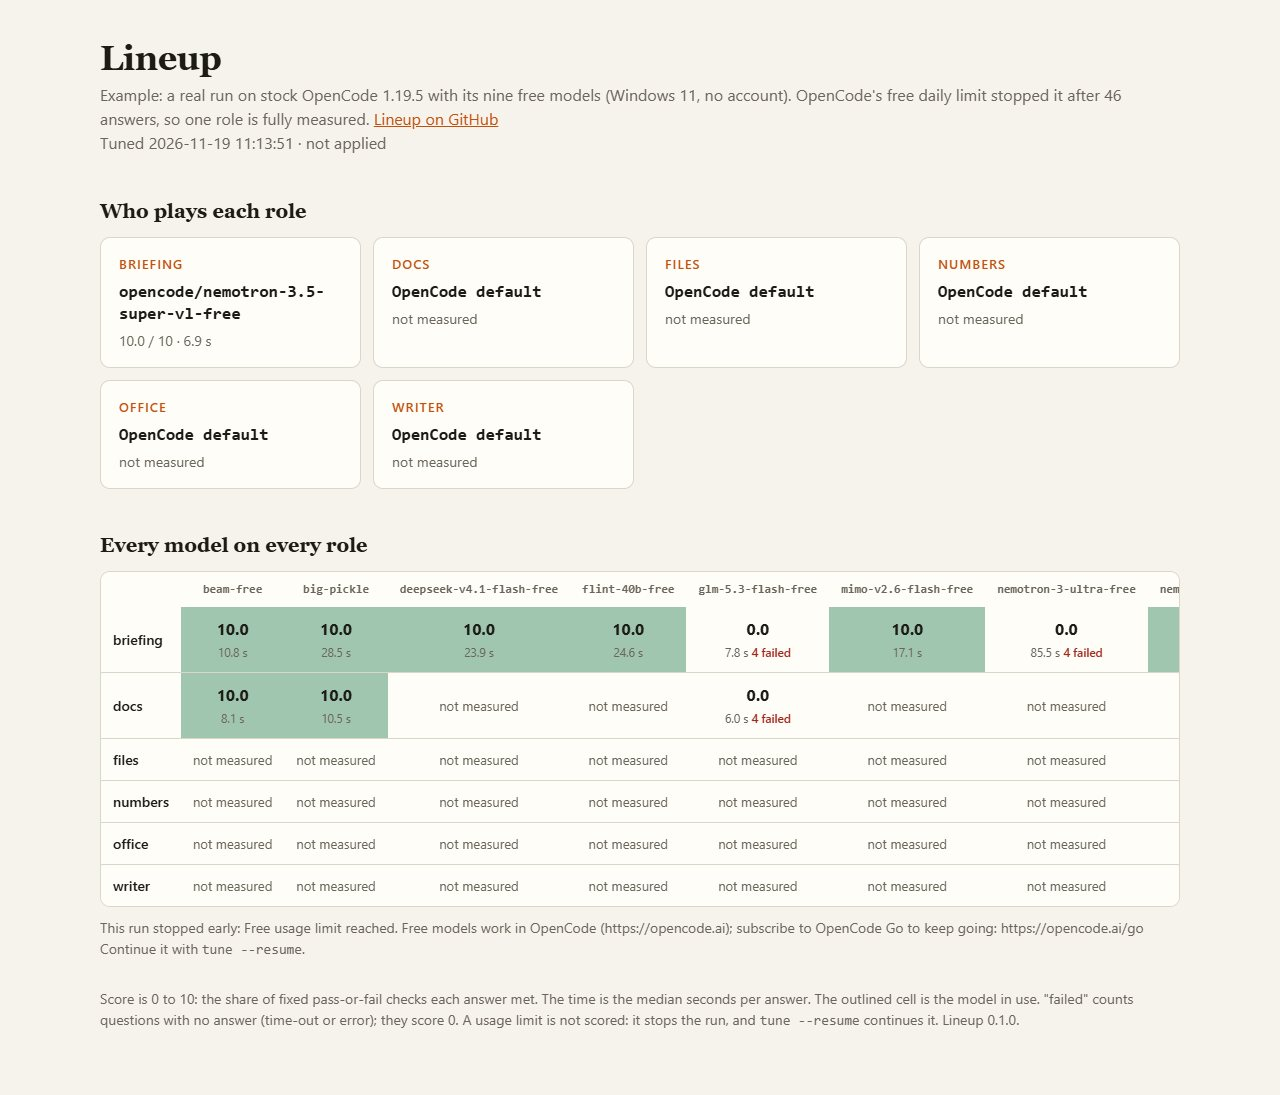
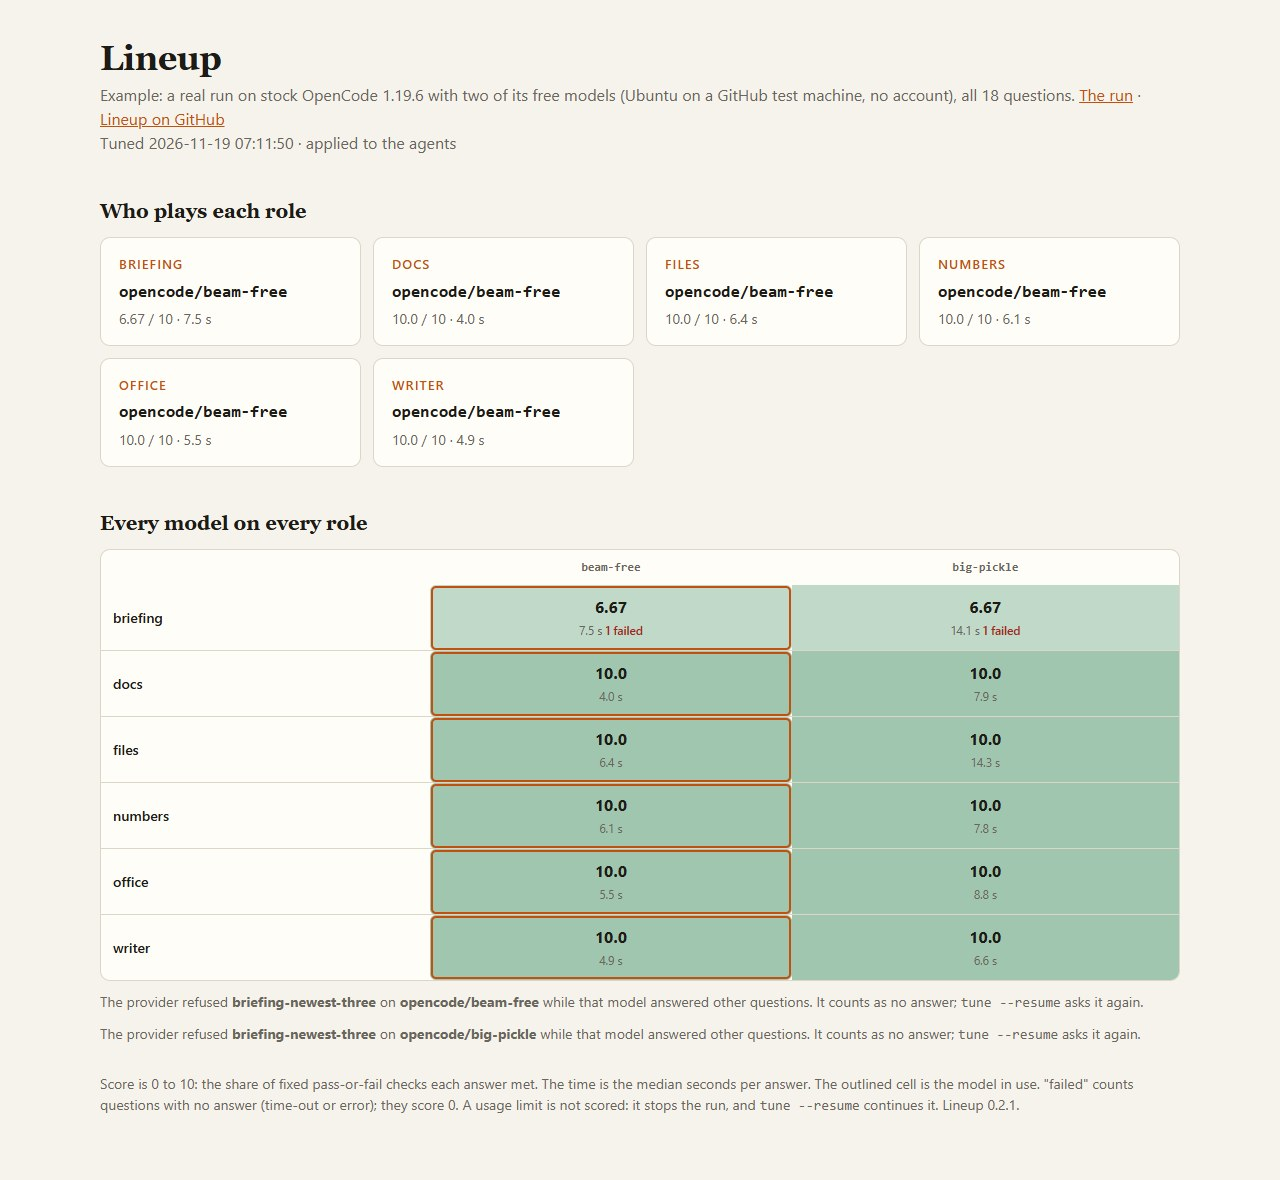
lineup: 0.2.1, the example is the complete run on a GitHub test machine

diff --git a/p/lineup/index.html b/p/lineup/index.html
@@ -605,7 +605,7 @@ html.dna.dna.dna { --fd: "Fjalla One", var(--fd-fallback); --fdw: 400; --fd-fall
       <div class="bar"><i></i><i></i><i></i><span>lineup · example run</span><em>example run</em></div>
       <img src="shot.jpg" alt="Lineup screenshot" width="1280" height="800" fetchpriority="high">
     </figure>
-    <div class="stats reveal" style="--n:4"><div class="stat"><b>2</b><span>platforms: OpenCode, Python</span></div><div class="stat"><b>6</b><span>role agents</span></div><div class="stat"><b>18</b><span>fixed questions per model with --hard</span></div><div class="stat"><b>38</b><span>tests, no network needed</span></div></div>
+    <div class="stats reveal" style="--n:4"><div class="stat"><b>2</b><span>platforms: OpenCode, Python</span></div><div class="stat"><b>6</b><span>role agents</span></div><div class="stat"><b>18</b><span>fixed questions per model with --hard</span></div><div class="stat"><b>40</b><span>tests, no network needed</span></div></div>
   </section>
 
   <section class="block wrap why reveal" id="why">
@@ -650,12 +650,12 @@ python lineup.py report             # open the score page"><svg viewBox="0 0 24 
   <section class="block alt wrap reveal" id="features">
     <div class="kicker">What's inside</div>
     <h2>Six agents and one command.</h2>
-    <div class="bento"><article class="cell wide dark"><h3>Six role agents</h3><p>Files, docs, numbers, writer, office and briefing. Pick one in OpenCode or call it as a subagent.</p></article><article class="cell"><h3>Each agent has its own permissions</h3><p>Files, numbers and briefing may not edit files or run commands. Docs and writer ask before an edit. Office asks before an edit or a command.</p></article><article class="cell"><h3>One command chooses the models</h3><p>tune asks every model the same fixed questions and writes the best one for each role into the agent files.</p></article><article class="cell accent"><h3>Pass-or-fail checks</h3><p>For example &quot;exactly 3 bullets&quot; or &quot;the sum is 4,815.50&quot;. The score is the share of checks passed, from 0 to 10. No model judges another model.</p></article><article class="cell"><h3>A backup and a put-back</h3><p>The agent files are copied before any change. Each changed agent is asked one question, and if one does not answer, all files are put back.</p></article><article class="cell"><h3>It stops at a usage limit</h3><p>If a provider refuses more questions, Lineup stops asking, changes no agent and keeps every answer it has. --resume continues from there, for up to 7 days.</p></article><article class="cell"><h3>Your own tasks</h3><p>The built-in tasks are a floor, and --hard adds a harder third task per role. Add questions from your own work to tasks.json with four check types: regex, absent, bullets and max_words.</p></article><article class="cell wide"><h3>No packages to install</h3><p>You need OpenCode with at least one working model, and Python 3.9 or newer on Windows, macOS or Linux. No Python packages are installed. On Windows without Python, lineup.exe does the same.</p></article></div>
+    <div class="bento"><article class="cell wide dark"><h3>Six role agents</h3><p>Files, docs, numbers, writer, office and briefing. Pick one in OpenCode or call it as a subagent.</p></article><article class="cell"><h3>Each agent has its own permissions</h3><p>Files, numbers and briefing may not edit files or run commands. Docs and writer ask before an edit. Office asks before an edit or a command.</p></article><article class="cell"><h3>One command chooses the models</h3><p>tune asks every model the same fixed questions and writes the best one for each role into the agent files.</p></article><article class="cell accent"><h3>Pass-or-fail checks</h3><p>For example &quot;exactly 3 bullets&quot; or &quot;the sum is 4,815.50&quot;. The score is the share of checks passed, from 0 to 10. No model judges another model.</p></article><article class="cell"><h3>A backup and a put-back</h3><p>The agent files are copied before any change. Each changed agent is asked one question, and if one does not answer, all files are put back.</p></article><article class="cell"><h3>It stops at a usage limit</h3><p>If a provider refuses more questions, Lineup stops asking, changes no agent and keeps every answer it has. --resume continues from there, for up to 7 days. If it refuses one question only, that one counts as no answer and the run goes on.</p></article><article class="cell"><h3>Your own tasks</h3><p>The built-in tasks are a floor, and --hard adds a harder third task per role. Add questions from your own work to tasks.json with four check types: regex, absent, bullets and max_words.</p></article><article class="cell wide"><h3>No packages to install</h3><p>You need OpenCode with at least one working model, and Python 3.9 or newer on Windows, macOS or Linux. No Python packages are installed. On Windows without Python, lineup.exe does the same.</p></article></div>
   </section>
   <section class="block wrap reveal" id="gallery">
     <div class="kicker">Screens</div>
     <h2>See more of it.</h2>
-    <div class="gallery g1" style="grid-template-columns:minmax(0,820px)"><a class="shot" href="g1.jpg"><img src="g1.jpg" alt="The score page of the example run" loading="lazy" width="1280" height="1095"><span>The score page of the example run</span></a></div>
+    <div class="gallery g1" style="grid-template-columns:minmax(0,820px)"><a class="shot" href="g1.jpg"><img src="g1.jpg" alt="The score page of the example run" loading="lazy" width="1280" height="1180"><span>The score page of the example run</span></a></div>
   </section>
   <section class="block alt wrap reveal" id="privacy">
     <div class="privacy">
@@ -668,7 +668,7 @@ python lineup.py report             # open the score page"><svg viewBox="0 0 24 
     <div class="limits">
       <div><div class="kicker left">Good to know</div><h2 class="left">Honest limits.</h2>
       <p class="muted">Straight from the README, so you know what you're getting before you try it.</p></div>
-      <ul><li><i><svg viewBox="0 0 24 24" aria-hidden="true"><path d="M12 3.5l9.5 16.5h-19z" fill="none" stroke="currentColor" stroke-width="2" stroke-linejoin="round"/><path d="M12 10v4.5M12 17.4v.1" stroke="currentColor" stroke-width="2.2" stroke-linecap="round"/></svg></i><span>Twelve small tasks, or eighteen with --hard, and one or two runs are a small sample, so read a score of 10 as &quot;passed these checks&quot;, not as &quot;the best model&quot;.</span></li><li><i><svg viewBox="0 0 24 24" aria-hidden="true"><path d="M12 3.5l9.5 16.5h-19z" fill="none" stroke="currentColor" stroke-width="2" stroke-linejoin="round"/><path d="M12 10v4.5M12 17.4v.1" stroke="currentColor" stroke-width="2.2" stroke-linecap="round"/></svg></i><span>The first example run did not finish: OpenCode&#x27;s free usage limit stopped it after 46 of 216 answers, so one role of six is fully measured, and a smaller finishing run is described in the README.</span></li><li><i><svg viewBox="0 0 24 24" aria-hidden="true"><path d="M12 3.5l9.5 16.5h-19z" fill="none" stroke="currentColor" stroke-width="2" stroke-linejoin="round"/><path d="M12 10v4.5M12 17.4v.1" stroke="currentColor" stroke-width="2.2" stroke-linecap="round"/></svg></i><span>Only Windows 11 has a complete tuning run: on macOS and Linux the tests pass, and the tuning run tried there got 17 of 18 questions answered and one refused by the free plan.</span></li><li><i><svg viewBox="0 0 24 24" aria-hidden="true"><path d="M12 3.5l9.5 16.5h-19z" fill="none" stroke="currentColor" stroke-width="2" stroke-linejoin="round"/><path d="M12 10v4.5M12 17.4v.1" stroke="currentColor" stroke-width="2.2" stroke-linecap="round"/></svg></i><span>Pass-or-fail checks measure whether an answer is correct and in the asked format, not style or depth.</span></li><li><i><svg viewBox="0 0 24 24" aria-hidden="true"><path d="M12 3.5l9.5 16.5h-19z" fill="none" stroke="currentColor" stroke-width="2" stroke-linejoin="round"/><path d="M12 10v4.5M12 17.4v.1" stroke="currentColor" stroke-width="2.2" stroke-linecap="round"/></svg></i><span>Every question starts OpenCode once, so a question takes seconds even on a fast model.</span></li></ul>
+      <ul><li><i><svg viewBox="0 0 24 24" aria-hidden="true"><path d="M12 3.5l9.5 16.5h-19z" fill="none" stroke="currentColor" stroke-width="2" stroke-linejoin="round"/><path d="M12 10v4.5M12 17.4v.1" stroke="currentColor" stroke-width="2.2" stroke-linecap="round"/></svg></i><span>Twelve small tasks, or eighteen with --hard, and one or two runs are a small sample, so read a score of 10 as &quot;passed these checks&quot;, not as &quot;the best model&quot;.</span></li><li><i><svg viewBox="0 0 24 24" aria-hidden="true"><path d="M12 3.5l9.5 16.5h-19z" fill="none" stroke="currentColor" stroke-width="2" stroke-linejoin="round"/><path d="M12 10v4.5M12 17.4v.1" stroke="currentColor" stroke-width="2.2" stroke-linecap="round"/></svg></i><span>The first example run did not finish, because OpenCode&#x27;s free limit stopped it after 46 of 216 answers, so the example shown is a later run of two free models on a GitHub test machine.</span></li><li><i><svg viewBox="0 0 24 24" aria-hidden="true"><path d="M12 3.5l9.5 16.5h-19z" fill="none" stroke="currentColor" stroke-width="2" stroke-linejoin="round"/><path d="M12 10v4.5M12 17.4v.1" stroke="currentColor" stroke-width="2.2" stroke-linecap="round"/></svg></i><span>On Ubuntu and macOS the full tuning run was done on GitHub&#x27;s test machines only, and the provider refused one question there on both models, so 34 of 36 questions were answered.</span></li><li><i><svg viewBox="0 0 24 24" aria-hidden="true"><path d="M12 3.5l9.5 16.5h-19z" fill="none" stroke="currentColor" stroke-width="2" stroke-linejoin="round"/><path d="M12 10v4.5M12 17.4v.1" stroke="currentColor" stroke-width="2.2" stroke-linecap="round"/></svg></i><span>Pass-or-fail checks measure whether an answer is correct and in the asked format, not style or depth.</span></li><li><i><svg viewBox="0 0 24 24" aria-hidden="true"><path d="M12 3.5l9.5 16.5h-19z" fill="none" stroke="currentColor" stroke-width="2" stroke-linejoin="round"/><path d="M12 10v4.5M12 17.4v.1" stroke="currentColor" stroke-width="2.2" stroke-linecap="round"/></svg></i><span>Every question starts OpenCode once, so a question takes seconds even on a fast model.</span></li></ul>
     </div>
   </section>
   <section class="block alt wrap reveal" id="hood">
@@ -682,7 +682,7 @@ python lineup.py report             # open the score page"><svg viewBox="0 0 24 
   <section class="block wrap reveal" id="faq">
     <div class="kicker">Questions</div>
     <h2>Good questions.</h2>
-    <div class="faq"><details open><summary>What does it run on?</summary><p>OpenCode, Python.</p></details><details><summary>How do I get it running?</summary><p>The commands in the “Install and tune” box above come straight from the README. Paste them into a terminal; the README covers options and troubleshooting.</p></details><details><summary>Where does my data go?</summary><p>Results stay on your machine, in a folder named .lineup in your home folder. The questions go to the models you already use in OpenCode, through OpenCode itself.</p></details><details><summary>Why did the first example run stop early?</summary><p>It asked OpenCode&#x27;s nine free models 216 questions with no account, and OpenCode&#x27;s free usage limit stopped it after 46 answers.</p></details><details><summary>Does a score of 10 mean the best model?</summary><p>No, it means the model passed these checks.</p></details><details><summary>How do I undo it?</summary><p>The uninstall command removes the six agents and touches nothing else, and every tune keeps the agent files from before in a backup folder.</p></details><details><summary>What doesn&#x27;t it do yet?</summary><p>Twelve small tasks, or eighteen with --hard, and one or two runs are a small sample, so read a score of 10 as &quot;passed these checks&quot;, not as &quot;the best model&quot;. The first example run did not finish: OpenCode&#x27;s free usage limit stopped it after 46 of 216 answers, so one role of six is fully measured, and a smaller finishing run…</p></details><details><summary>Is it free?</summary><p>The source is public on GitHub under the MIT licence.</p></details></div>
+    <div class="faq"><details open><summary>What does it run on?</summary><p>OpenCode, Python.</p></details><details><summary>How do I get it running?</summary><p>The commands in the “Install and tune” box above come straight from the README. Paste them into a terminal; the README covers options and troubleshooting.</p></details><details><summary>Where does my data go?</summary><p>Results stay on your machine, in a folder named .lineup in your home folder. The questions go to the models you already use in OpenCode, through OpenCode itself.</p></details><details><summary>Why did the first example run stop early?</summary><p>It asked OpenCode&#x27;s nine free models 216 questions with no account, and OpenCode&#x27;s free usage limit stopped it after 46 answers.</p></details><details><summary>Does a score of 10 mean the best model?</summary><p>No, it means the model passed these checks.</p></details><details><summary>How do I undo it?</summary><p>The uninstall command removes the six agents and touches nothing else, and every tune keeps the agent files from before in a backup folder.</p></details><details><summary>What doesn&#x27;t it do yet?</summary><p>Twelve small tasks, or eighteen with --hard, and one or two runs are a small sample, so read a score of 10 as &quot;passed these checks&quot;, not as &quot;the best model&quot;. The first example run did not finish, because OpenCode&#x27;s free limit stopped it after 46 of 216 answers, so the example shown is a later run of two free models on a…</p></details><details><summary>Is it free?</summary><p>The source is public on GitHub under the MIT licence.</p></details></div>
   </section>
   <section class="block alt wrap reveal" id="more">
     <div class="kicker">Keep exploring</div>
